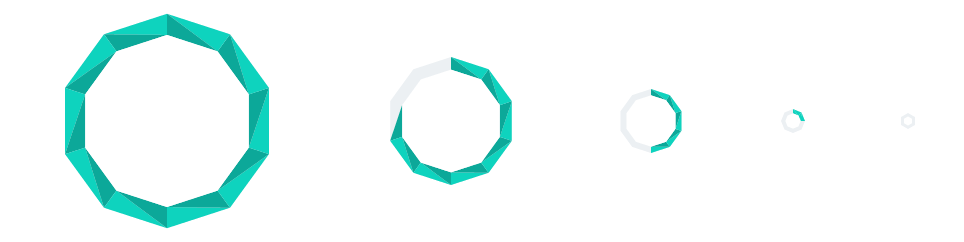
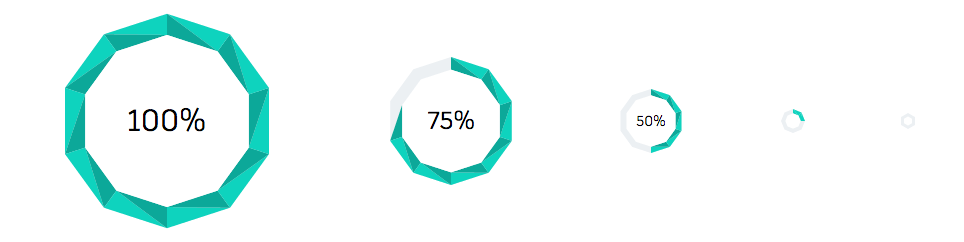
Add progress % as typography

Changed region(s): [[0.1245, 0.4339, 0.2178, 0.5496], [0.4357, 0.4628, 0.4979, 0.5496], [0.6535, 0.4628, 0.7158, 0.5207]]

diff --git a/packages/vanilla/src/components/progress-ring/progress-ring.scss b/packages/vanilla/src/components/progress-ring/progress-ring.scss
@@ -1,9 +1,49 @@
 @import '../../basics/colors/colors.scss';
+@import '~helpers/css/mixins/base.scss';
 
 .hig__progress-ring {
+  @include reset;
   display: flex;
+  position: relative;
   justify-content: center;
   align-items: center;
+
+  &.hig__progress-ring--determinate::after {
+    content: attr(aria-valuenow) "%";
+    position: absolute;
+    top: 0;
+    right: 0;
+    bottom: 0;
+    left: 0;
+    display: flex;
+    justify-content: center;
+    align-items: center;
+    opacity: 0;
+    transform: scale(0.7);
+    transition: opacity 0.3s ease-in, transform 0.3s ease-in;
+  }
+
+  &.hig__progress-ring--determinate.hig__progress-ring--entered::after {
+    transform: scale(1);
+    opacity: 1;
+  }
+
+  &.hig__progress-ring--determinate.hig__progress-ring--xl::after {
+    font-size: 30px;
+  }
+
+  &.hig__progress-ring--determinate.hig__progress-ring--l::after {
+    font-size: 24px;
+  }
+
+  &.hig__progress-ring--determinate.hig__progress-ring--m::after {
+    font-size: 14px;
+  }
+
+  &.hig__progress-ring--determinate.hig__progress-ring--s::after,
+  &.hig__progress-ring--determinate.hig__progress-ring--xs::after {
+    display: none;
+  }
 }
 
 .hig__progress-ring__background {

diff --git a/packages/vanilla/src/components/progress-ring/progress-ring.js b/packages/vanilla/src/components/progress-ring/progress-ring.js
@@ -11,6 +11,7 @@ const smallSVG = require('./progress-ring-s.svg');
 const mediumsSVG = require('./progress-ring-m.svg');
 
 const AvailableSizes = ['xs', 's', 'm', 'l', 'xl'];
+const SIZE_CLASSES = AvailableSizes.map(size => (`hig__progress-ring--${size}`));
 
 const sizes = {
   xs: {
@@ -76,6 +77,8 @@ class ProgressRing extends Core {
     this.el.style.width = sizes[size].size;
     this.el.style.height = sizes[size].size;
     this.el.children[0].style.transform = `scale(${sizes[size].scale})`;
+    this.el.classList.remove(...SIZE_CLASSES);
+    this.el.classList.add(`hig__progress-ring--${size}`);
 
     this.animation.forceReset();
   }

diff --git a/packages/vanilla/src/components/progress-ring/progress-ring-determinate.js b/packages/vanilla/src/components/progress-ring/progress-ring-determinate.js
@@ -99,6 +99,7 @@ class ProgressRingDeterminate {
       const index = Math.abs(i - this.SEGMENT_COUNT) - 1;
       segment.style.opacity = this.opacityForSegment(index, value);
     });
+    this.el.setAttribute('aria-valuenow', (value * 100).toFixed(0));
   }
 
   opacityForSegment(index, value) {

diff --git a/packages/vanilla/src/components/progress-ring/progress-ring.html b/packages/vanilla/src/components/progress-ring/progress-ring.html
@@ -1,1 +1,1 @@
-<div class="hig__progress-ring"></div>
+<div class="hig__progress-ring" role="progressbar" aria-valuemin="0" aria-valuemax="100"></div>
